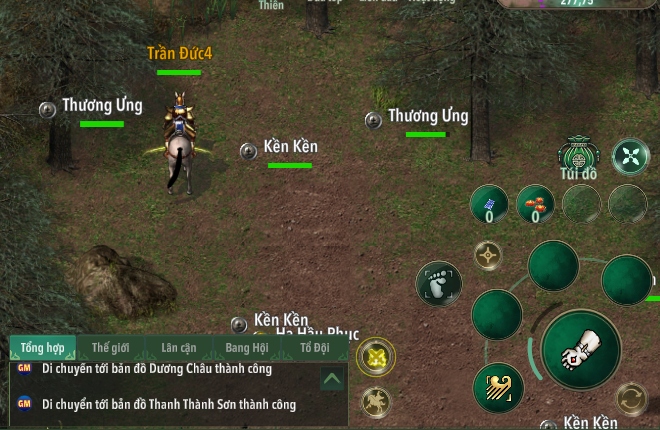
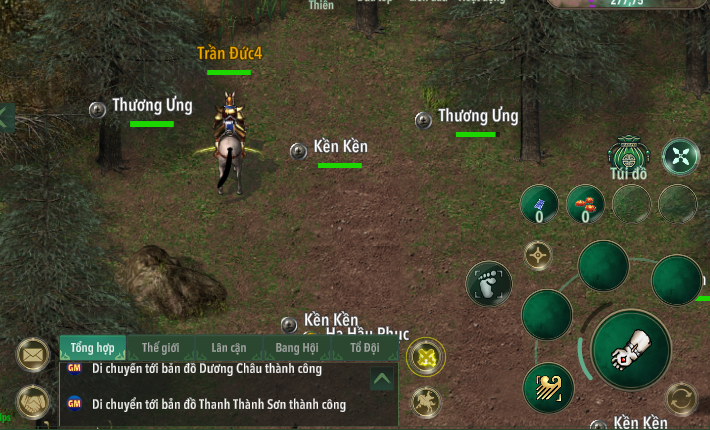
o

diff --git a/z-hoa_dang.js b/z-hoa_dang.js
@@ -135,9 +135,9 @@ function setupKeyboard() {
                         const [hoa_dang_buffer, cau_hoi_buffer] = await Promise.all([
                             base.clone()
                                 .extract({
-                                    left: 300,
+                                    left: 250,
                                     top: 110,
-                                    width: metadata.width - 300,
+                                    width: metadata.width - 250,
                                     height: metadata.height - 110,
                                 })
                                 .toBuffer(),
@@ -185,7 +185,7 @@ function setupKeyboard() {
 
                             for (const { x, y, mathImagePath } of matchedFilter) {
                                 exclude.push(mathImagePath);
-                                await tap(host, x + 300, y + 110);
+                                await tap(host, x + 250, y + 110);
                             }
                         } else {
                             const positions = [

diff --git a/1.js b/1.js
@@ -232,9 +232,9 @@ async function swipe(host, x1, y1, x2, y2, duration = 300) {
 
     const pngBuffer = await sharp(buffer)
         .extract({
-            left: 300,
+            left: 250,
             top: 110,
-            width: metadata.width - 300,
+            width: metadata.width - 250,
             height: metadata.height - 110,
         })
         .toBuffer();
